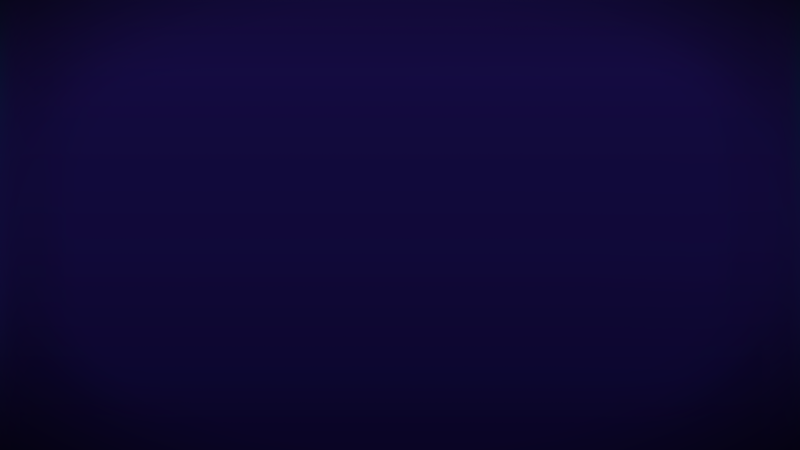
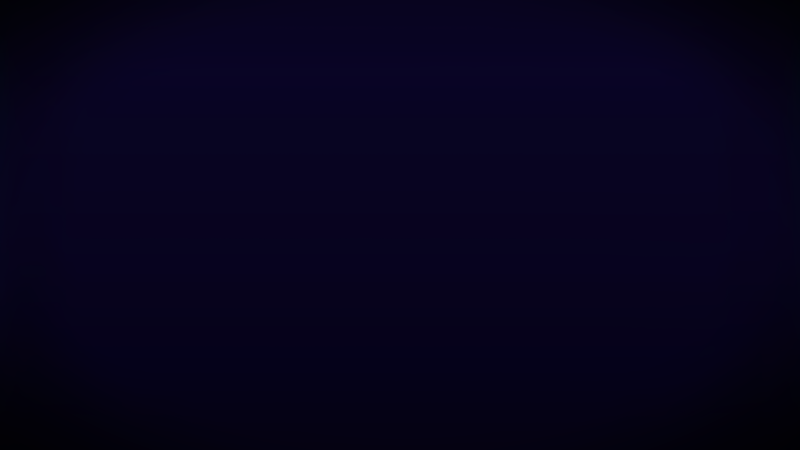
Claude updated the platforms in play.html

diff --git a/src/tools/play.html b/src/tools/play.html
@@ -193,10 +193,17 @@ const COLUMN_FRAME = 50, COLUMN_TOP = 0, COLUMN_PLAIN = 1, COLUMN_RUNES = [2, 3,
 const COLUMN_SHAFT_INSET = 4, COLUMN_RUNE_CHANCE = 0.6, COLUMN_SEED = 4242;
 const WALL_W = COLUMN_FRAME - COLUMN_SHAFT_INSET * 2;
 const WALLS = [{ x: 4000, h: 400 }, { x: 12000 + 160, h: 440 }, { x: 12550, h: 400 }];
-const PLATS = [
-  { x: 700, y: 300, w: 200 }, { x: 500, y: 110, w: 160 }, { x: 550, y: 0, w: 200 }, { x: 3000, y: 300, w: 160 },
-  { x: 4000, y: 330, w: 240 }, { x: 5000, y: 260, w: 160 }, { x: 6000, y: 300, w: 240 }, { x: 7000, y: 380, w: 160 },
-  { x: 8000, y: 240, w: 200 }, { x: 9000, y: 300, w: 240 }, { x: 11000, y: 300, w: 280 },
+/* PLATFORM ART (map/platforms.png, 400 x 200 ROUGH DRAFT, NOT TILEABLE YET): EACH TEST-LEVEL PLATFORM IS ONE WHOLE PIECE, DRAWN AT scale.
+   pieces = SOURCE RECTS IN THE PNG. cap = HEIGHT (SOURCE PX) OF THE TOP BRICK ROW YOU STAND ON = THE COLLISION STRIP. THE LAYERS + VINES BELOW IT ARE ART ONLY.
+   A PLATFORM'S WIDTH COMES FROM ITS PIECE (piece.w x scale). on: false = THE OLD 50 PX tiles.png PLATFORMS (USING THE OLD w) TO COMPARE. */
+const PLATFORM_ART = {
+  on: true, src: 'assets/images/map/platforms.png', scale: 1, cap: 24,
+  pieces: { long: { sx: 0, sy: 0, w: 400, h: 100 }, shortA: { sx: 0, sy: 100, w: 199, h: 89 }, shortB: { sx: 200, sy: 100, w: 200, h: 89 } },
+};
+const PLATS = [   // art = WHICH PIECE (long / shortA / shortB). w = OLD TILE WIDTH, ONLY USED WHEN PLATFORM_ART.on IS false
+  { x: 700, y: 300, w: 200, art: 'shortA' }, { x: 500, y: 110, w: 160, art: 'shortB' }, { x: 550, y: 0, w: 200, art: 'shortA' }, { x: 3000, y: 300, w: 160, art: 'shortB' },
+  { x: 4000, y: 330, w: 240, art: 'long' }, { x: 5000, y: 260, w: 160, art: 'shortA' }, { x: 6000, y: 300, w: 240, art: 'long' }, { x: 7000, y: 380, w: 160, art: 'shortB' },
+  { x: 8000, y: 240, w: 200, art: 'shortA' }, { x: 9000, y: 300, w: 240, art: 'long' }, { x: 11000, y: 300, w: 280, art: 'long' },
 ];
 const BG = '#030013';
 
@@ -239,7 +246,12 @@ function buildLevel() {
   solids.push({ x: 0, y: GROUND_Y, w: GROUND_W, h: GROUND_H });
   const rand = makeRng(TILE_SEED); let prev = -1;
   const pickMid = () => { let f; do { f = Math.floor(rand() * TILE_FRAME_COUNT); } while (f === prev && TILE_FRAME_COUNT > 1); prev = f; return f; };
-  PLATS.forEach(pd => { const cols = Math.ceil(pd.w / TILE_SIZE), tiles = []; for (let i = 0; i < cols; i++) tiles.push(pickMid()); oneWays.push({ x: pd.x, y: pd.y, w: pd.w, h: PLATFORM_H, tiles }); });
+  const A = PLATFORM_ART;
+  PLATS.forEach(pd => {
+    const pc = A.on && A.pieces[pd.art];
+    if (pc) { oneWays.push({ x: pd.x, y: pd.y, w: pc.w * A.scale, h: A.cap * A.scale, tiles: [], art: pc }); return; }   // ONE WHOLE PIECE OF platforms.png
+    const cols = Math.ceil(pd.w / TILE_SIZE), tiles = []; for (let i = 0; i < cols; i++) tiles.push(pickMid()); oneWays.push({ x: pd.x, y: pd.y, w: pd.w, h: PLATFORM_H, tiles });
+  });
   const r2 = makeRng(COLUMN_SEED);
   WALLS.forEach(w => {
     const wall = { x: w.x, y: GROUND_Y - w.h, w: WALL_W, h: w.h, pieces: [] };
@@ -343,7 +355,8 @@ async function loadAssets() {
     const tw = sheetTweak(key); if (tw.snapFeet || (tw.snapFrames && tw.snapFrames.length)) measureFootGaps(key, im, sh.frames);
   }
   IMG.spell = await loadImg(SPELL.src); try { IMG.catSpell = await loadImg(CAT_SPELL.src); } catch (e) { console.warn('[play] no cat spell sheet (' + e.message + ')'); } IMG.swoosh = await loadImg(SWOOSH.src); IMG.puff = await loadImg(PUFF.src); IMG.spawn = await loadImg(SPAWN_FX.src); IMG.torch = await loadImg(TORCH.src); IMG.flame = await loadImg(TORCH.flameSrc); IMG.cloakBack = await loadImg(CLOAK.backSrc); IMG.cloakFront = await loadImg(CLOAK.frontSrc);
-  IMG.ground = await loadImg('assets/images/map/ground.png'); IMG.tiles = await loadImg('assets/images/map/tiles.png'); IMG.column = await loadImg('assets/images/map/column.png');
+  IMG.ground = await loadImg('assets/images/map/ground.png'); IMG.tiles = await loadImg('assets/images/map/tiles.png');
+  try { IMG.platforms = await loadImg(PLATFORM_ART.src); } catch (e) { console.warn('[play] no platform art, using tiles (' + e.message + ')'); } IMG.column = await loadImg('assets/images/map/column.png');
   IMG.backdrop = await loadImg(BACKDROP.bgSrc); IMG.parallaxCol = await loadImg(BACKDROP.colSrc);
   try { IMG.swordSpin = await loadImg(DOUBLE_SLASH.spinSrc); } catch (e) { console.warn('[play] no sword spin (' + e.message + ')'); }   // OPTIONAL: THE COMBO PLAYS WITHOUT THE SAW BLADE
   try { IMG.arcade = await loadImg(ARCADE.src); buildArcade(); } catch (e) { console.warn('[play] no arcade backdrop (' + e.message + ')'); }      // OPTIONAL: PLAY RUNS WITHOUT THEM
@@ -2103,7 +2116,7 @@ function drawLevel(vl, vr) {
   if (MAP.on) { drawMapLevel(vl, vr); return; }
   const g = IMG.ground;
   for (let i = Math.max(0, Math.floor(vl / GROUND_TILE_W)); i * GROUND_TILE_W < Math.min(vr, GROUND_W); i++) ctx.drawImage(g, i * GROUND_TILE_W, GROUND_Y, GROUND_TILE_W, GROUND_H);
-  for (const o of oneWays) { if (o.x > vr || o.x + o.w + TILE_SIZE < vl) continue; o.tiles.forEach((f, i) => ctx.drawImage(IMG.tiles, f * TILE_SIZE, 0, TILE_SIZE, TILE_SIZE, o.x + i * TILE_SIZE, o.y, TILE_SIZE, TILE_SIZE)); }
+  for (const o of oneWays) { if (o.x > vr || o.x + o.w + TILE_SIZE < vl) continue; if (o.art) { if (!IMG.platforms) continue; const p = o.art, k = PLATFORM_ART.scale; ctx.drawImage(IMG.platforms, p.sx, p.sy, p.w, p.h, o.x, o.y, p.w * k, p.h * k); continue; } o.tiles.forEach((f, i) => ctx.drawImage(IMG.tiles, f * TILE_SIZE, 0, TILE_SIZE, TILE_SIZE, o.x + i * TILE_SIZE, o.y, TILE_SIZE, TILE_SIZE)); }
   for (const w of walls) { if (w.x > vr || w.x + w.w + COLUMN_FRAME < vl) continue; for (const p of w.pieces) ctx.drawImage(IMG.column, p.frame * COLUMN_FRAME, 0, COLUMN_FRAME, COLUMN_FRAME, w.x - COLUMN_SHAFT_INSET, w.y + p.y, COLUMN_FRAME, p.h); }
 }
 function drawPlayer(x, y) {
@@ -2311,7 +2324,7 @@ function showError(e) { const d = document.createElement('div'); d.id = 'err'; d
   spawnPlayer(); cam.x = P.x; cam.y = cam.fy = P.y - CAM_Y_OFFSET;
   initCharacters(); initMaps(); initAudio();
   cv.focus(); addEventListener('pointerdown', () => cv.focus());
-  window.__play = { DOUBLE_SLASH, slash, slashSparks, pressSlash, CAT_SPELL, catSpells, catFx, castCat, audio: () => window.OSWAudio, SFX, MUSIC, sfx, toggleMusic, toggleBlips, worm, WORM, WORM_FX, wormParts, wormGo, resetWorm, ARCADE, BG_BOTTOM, BACKDROP, buildArcade, cam, PET, PET_ARM, petArm, pressPet, cancelPet, solveArm, critters, CRITTER_KINDS, spawnCritters, capeProf, loadCapeProfile, CAPE_CLOTH, capePins, capePinCache, CAPE_PIN_POSES, capeCfgApply, capeCfgBuild, CAPE_CFG_BUILTIN, CAPE_SIM_DEFAULT, IDLE_CAPE, ATTACK_CAPE, JUMP_CAPE, CAPE_SPRING, capeCfgSrc: () => capeCfgSrc, capeLook: () => CAPE_LOOK, liningRgb: () => LINING_RGB, useCharacter, MAP, loadMap: async (m, n) => { await loadMapLevel(m, n); spawnPlayer(); cam.x = P.x; cam.y = cam.fy = P.y - CAM_Y_OFFSET; }, loadDefault: () => { loadDefaultLevel(); spawnPlayer(); cam.x = P.x; cam.y = cam.fy = P.y - CAM_Y_OFFSET; }, get SPAWN() { return SPAWN; }, lighting, lamps, render: () => render(0.5), collectLights, dissolve: () => ({ amount: dissolveAmount, out: dissolvingOut }), doubleJump, cape, cloth, CAPE_DISSOLVE, FX, squash, particles, ghosts, puffs, shake, hitStop: () => hitStopT, P, PHYS, keys, tick, solids, walls, oneWays, spawnPlayer, applyPhysics, state: () => ({ currentAnim, isAttacking, touching, dashTimer, airJumpReady, airKickReady, wallSlideHOffset, landTimer, physSource, doubleJump: { t: doubleJump.t, angle: doubleJump.angle } }), pause: v => { paused = v; } };
+  window.__play = { PLATFORM_ART, PLATS, DOUBLE_SLASH, slash, slashSparks, pressSlash, CAT_SPELL, catSpells, catFx, castCat, audio: () => window.OSWAudio, SFX, MUSIC, sfx, toggleMusic, toggleBlips, worm, WORM, WORM_FX, wormParts, wormGo, resetWorm, ARCADE, BG_BOTTOM, BACKDROP, buildArcade, cam, PET, PET_ARM, petArm, pressPet, cancelPet, solveArm, critters, CRITTER_KINDS, spawnCritters, capeProf, loadCapeProfile, CAPE_CLOTH, capePins, capePinCache, CAPE_PIN_POSES, capeCfgApply, capeCfgBuild, CAPE_CFG_BUILTIN, CAPE_SIM_DEFAULT, IDLE_CAPE, ATTACK_CAPE, JUMP_CAPE, CAPE_SPRING, capeCfgSrc: () => capeCfgSrc, capeLook: () => CAPE_LOOK, liningRgb: () => LINING_RGB, useCharacter, MAP, loadMap: async (m, n) => { await loadMapLevel(m, n); spawnPlayer(); cam.x = P.x; cam.y = cam.fy = P.y - CAM_Y_OFFSET; }, loadDefault: () => { loadDefaultLevel(); spawnPlayer(); cam.x = P.x; cam.y = cam.fy = P.y - CAM_Y_OFFSET; }, get SPAWN() { return SPAWN; }, lighting, lamps, render: () => render(0.5), collectLights, dissolve: () => ({ amount: dissolveAmount, out: dissolvingOut }), doubleJump, cape, cloth, CAPE_DISSOLVE, FX, squash, particles, ghosts, puffs, shake, hitStop: () => hitStopT, P, PHYS, keys, tick, solids, walls, oneWays, spawnPlayer, applyPhysics, state: () => ({ currentAnim, isAttacking, touching, dashTimer, airJumpReady, airKickReady, wallSlideHOffset, landTimer, physSource, doubleJump: { t: doubleJump.t, angle: doubleJump.angle } }), pause: v => { paused = v; } };
   last = performance.now(); requestAnimationFrame(frame);
 })();
 </script>
